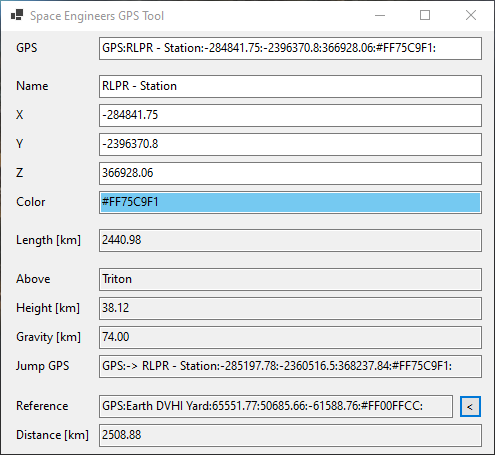
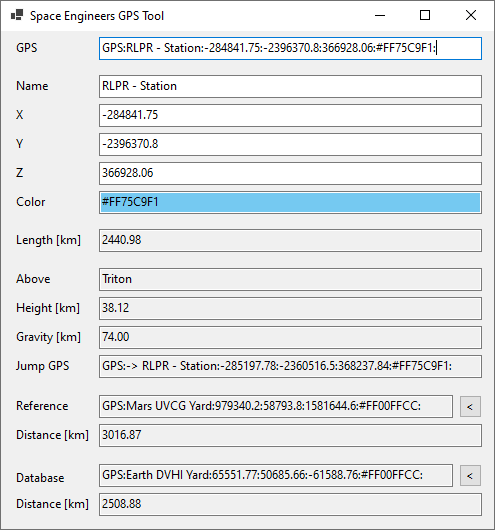
adding database and log feature

diff --git a/MainWindow.cs b/MainWindow.cs
@@ -1,6 +1,7 @@
 using System;
 using System.Collections.Generic;
 using System.Drawing;
+using System.IO;
 using System.Windows.Forms;
 
 namespace SEGPS
@@ -10,6 +11,10 @@ namespace SEGPS
     public partial class MainWindow : Form
     {
         private List<Planet> planets = new List<Planet>();
+        private List<Gps> database = new List<Gps>();
+        private string databasePath = Path.ChangeExtension(Application.ExecutablePath, ".txt");
+        private List<String> log = new List<String>();
+        private string logPath = Path.ChangeExtension(Application.ExecutablePath, ".log");
         private bool textIsChanging = false;
 
         private string clipBoardContent;
@@ -37,6 +42,9 @@ namespace SEGPS
             planets.Add(new Planet(new Gps("GPS:Alien:131072.50:131072.50:5731072.50:#FF75C9F1:"), 105000));
             planets.Add(new Planet(new Gps("GPS:Titan:36384.50:226384.50:5796384.50:#FF75C9F1:"), 13000));
 
+            DatabaseLoad();
+            LogLoad();
+
             timerClipboard.Enabled = true;
         }
 
@@ -62,7 +70,10 @@ namespace SEGPS
         {
             Gps gps = new Gps(content);
             if (gps.IsValid)
+            {
+                LogAppend(gps);
                 Gps_Changed(sender, gps);
+            }
         }
 
         private void SetTextBox(object sender, TextBox tb, string text)
@@ -94,16 +105,16 @@ namespace SEGPS
 
             tbLength.Text = (gps.Length() / 1000).ToString("0.00", Gps.NumberFormat); // [km]
 
-            Planet closest = GetClosest(gps);
-            if (closest != null)
+            Planet closestPlanet = GetClosestPlanet(gps);
+            if (closestPlanet != null)
             {
-                Gps center = closest.Item1;
+                Gps center = closestPlanet.Item1;
                 tbAbove.Text = center.Name;
 
                 float height = center.Distance(gps);
                 tbHeight.Text = (height / 1000).ToString("0.00", Gps.NumberFormat); // [km]
 
-                float gravity = closest.Item2;
+                float gravity = closestPlanet.Item2;
                 tbGravity.Text = (gravity / 1000).ToString("0.00", Gps.NumberFormat); // [km]
                 if (height > 1 && gravity - height > 1)
                 {
@@ -123,10 +134,83 @@ namespace SEGPS
                 tbRefDist.Text = (distance / 1000).ToString("0.00", Gps.NumberFormat); // [km]
             }
 
+            Gps closestDatabase = GetClosestDatabase(gps);
+            if (closestDatabase != null)
+            {
+                float distance = closestDatabase.Distance(gps);
+                tbDb.Text = closestDatabase.ToString();
+                tbDbDist.Text = (distance / 1000).ToString("0.00", Gps.NumberFormat); // [km]
+            }
+
             textIsChanging = false;
         }
 
-        private Planet GetClosest(Gps gps)
+        private void DatabaseLoad()
+        {
+            database.Clear();
+            if (File.Exists(databasePath))
+            {
+                foreach (var line in File.ReadAllLines(databasePath))
+                {
+                    database.Add(new Gps(line));
+                }
+            }
+        }
+
+        private void DatabaseWrite()
+        {
+            File.WriteAllLines(databasePath, database.ConvertAll(gps => gps.ToString()));
+        }
+
+        private void DatabaseUpdate(Gps gps)
+        {
+            bool found = false;
+            for (int i = 0; i < database.Count; i++)
+            {
+                if (gps.Distance(database[i]) < 10) // [m]
+                {
+                    database[i] = gps;
+                    found = true;
+                    break;
+                }
+            }
+            if (!found)
+            {
+                database.Add(gps);
+            }
+            DatabaseWrite();
+        }
+
+        private void LogLoad()
+        {
+            log.Clear();
+            if (File.Exists(logPath))
+            {
+                foreach (var line in File.ReadAllLines(logPath))
+                {
+                    log.Add(line);
+                }
+            }
+        }
+
+        private void LogAppend(Gps gps)
+        {
+            var line = gps.ToString();
+            // only log unseen coords
+            foreach (var entry in log)
+            {
+                if (entry == line)
+                {
+                    return;
+                }
+            }
+            using (var writer = File.AppendText(logPath))
+            {
+                writer.WriteLine(line);
+            }
+        }
+
+        private Planet GetClosestPlanet(Gps gps)
         {
             Planet closest = null;
             float min = float.PositiveInfinity;
@@ -137,6 +221,23 @@ namespace SEGPS
                 if (d < min)
                 {
                     closest = planet;
+                    min = d;
+                }
+            }
+            return closest;
+        }
+
+        private Gps GetClosestDatabase(Gps gps)
+        {
+            Gps closest = null;
+            float min = float.PositiveInfinity;
+
+            foreach (var entry in database)
+            {
+                float d = gps.Distance(entry);
+                if (d < min)
+                {
+                    closest = entry;
                     min = d;
                 }
             }
@@ -166,16 +267,37 @@ namespace SEGPS
 
         private void tbJumpGPS_DoubleClick(object sender, EventArgs e)
         {
-            tbJumpGPS.Select(0, tbJumpGPS.Text.Length);
-            // the JumpGPS coord will become new GPS coord, when clipboard change is detected
-            // could be prevented by: clipBoardContent = tbJumpGPS.Text;
-            Clipboard.SetText(tbJumpGPS.Text, TextDataFormat.UnicodeText);
+            if (tbJumpGPS.Text.Length > 0)
+            {
+                tbJumpGPS.Select(0, tbJumpGPS.Text.Length);
+                // the JumpGPS coord will become new GPS coord, when clipboard change is detected
+                // could be prevented by: clipBoardContent = tbJumpGPS.Text;
+                Clipboard.SetText(tbJumpGPS.Text, TextDataFormat.UnicodeText);
+            }
         }
 
         private void btRef_Click(object sender, EventArgs e)
         {
             tbRef.Text = tbGPS.Text;
             tbRefDist.Text = "0.00";
+        }
+
+        private void btDb_Click(object sender, EventArgs e)
+        {
+            tbDb.Text = tbGPS.Text;
+            tbDbDist.Text = "0.00";
+            DatabaseUpdate(new Gps(tbGPS.Text));
+        }
+
+        private void tbDb_DoubleClick(object sender, EventArgs e)
+        {
+            if (tbDb.Text.Length > 0)
+            {
+                tbDb.Select(0, tbDb.Text.Length);
+                // the database coord will become new GPS coord, when clipboard change is detected
+                // could be prevented by: clipBoardContent = tbDb.Text;
+                Clipboard.SetText(tbDb.Text, TextDataFormat.UnicodeText);
+            }
         }
     }
 }

diff --git a/MainWindow.Designer.cs b/MainWindow.Designer.cs
@@ -58,6 +58,11 @@ namespace SEGPS
             this.label12 = new System.Windows.Forms.Label();
             this.label13 = new System.Windows.Forms.Label();
             this.btRef = new System.Windows.Forms.Button();
+            this.btDb = new System.Windows.Forms.Button();
+            this.label14 = new System.Windows.Forms.Label();
+            this.label15 = new System.Windows.Forms.Label();
+            this.tbDbDist = new System.Windows.Forms.TextBox();
+            this.tbDb = new System.Windows.Forms.TextBox();
             this.SuspendLayout();
             // 
             // label1
@@ -298,11 +303,61 @@ namespace SEGPS
             this.btRef.UseVisualStyleBackColor = true;
             this.btRef.Click += new System.EventHandler(this.btRef_Click);
             // 
+            // btDb
+            // 
+            this.btDb.Location = new System.Drawing.Point(458, 433);
+            this.btDb.Name = "btDb";
+            this.btDb.Size = new System.Drawing.Size(23, 23);
+            this.btDb.TabIndex = 28;
+            this.btDb.Text = "<";
+            this.btDb.UseVisualStyleBackColor = true;
+            this.btDb.Click += new System.EventHandler(this.btDb_Click);
+            // 
+            // label14
+            // 
+            this.label14.AutoSize = true;
+            this.label14.Location = new System.Drawing.Point(12, 465);
+            this.label14.Name = "label14";
+            this.label14.Size = new System.Drawing.Size(80, 15);
+            this.label14.TabIndex = 30;
+            this.label14.Text = "Distance [km]";
+            // 
+            // label15
+            // 
+            this.label15.AutoSize = true;
+            this.label15.Location = new System.Drawing.Point(12, 439);
+            this.label15.Name = "label15";
+            this.label15.Size = new System.Drawing.Size(55, 15);
+            this.label15.TabIndex = 29;
+            this.label15.Text = "Database";
+            // 
+            // tbDbDist
+            // 
+            this.tbDbDist.Location = new System.Drawing.Point(98, 462);
+            this.tbDbDist.Name = "tbDbDist";
+            this.tbDbDist.ReadOnly = true;
+            this.tbDbDist.Size = new System.Drawing.Size(383, 23);
+            this.tbDbDist.TabIndex = 31;
+            // 
+            // tbDb
+            // 
+            this.tbDb.Location = new System.Drawing.Point(98, 433);
+            this.tbDb.Name = "tbDb";
+            this.tbDb.ReadOnly = true;
+            this.tbDb.Size = new System.Drawing.Size(354, 23);
+            this.tbDb.TabIndex = 27;
+            this.tbDb.DoubleClick += new System.EventHandler(this.tbDb_DoubleClick);
+            // 
             // MainWindow
             // 
             this.AutoScaleDimensions = new System.Drawing.SizeF(7F, 15F);
             this.AutoScaleMode = System.Windows.Forms.AutoScaleMode.Font;
-            this.ClientSize = new System.Drawing.Size(493, 423);
+            this.ClientSize = new System.Drawing.Size(493, 498);
+            this.Controls.Add(this.btDb);
+            this.Controls.Add(this.label14);
+            this.Controls.Add(this.label15);
+            this.Controls.Add(this.tbDbDist);
+            this.Controls.Add(this.tbDb);
             this.Controls.Add(this.btRef);
             this.Controls.Add(this.label13);
             this.Controls.Add(this.label12);
@@ -369,6 +424,11 @@ namespace SEGPS
         private System.Windows.Forms.Label label12;
         private System.Windows.Forms.Label label13;
         private System.Windows.Forms.Button btRef;
+        private System.Windows.Forms.Button btDb;
+        private System.Windows.Forms.Label label14;
+        private System.Windows.Forms.Label label15;
+        private System.Windows.Forms.TextBox tbDbDist;
+        private System.Windows.Forms.TextBox tbDb;
     }
 }
 

diff --git a/README.md b/README.md
@@ -17,3 +17,7 @@ Besides the individual components SEGPS will also show you:
 If the coords are within gravity, SEGPS will calculate a "Jump GPS" approach vector just outside the gravity but straight above your target. Double click here to load this into clipboard. In-game use "new from clipboard" and search for the prefix "->".
 
 Once a coord is loaded, you can use that as a reference point by pressing the "<" button next to the reference field. For any future coords, SEGPS will calculate the distance from there to the reference.
+
+Coords can be added to the database with the "<" button next to the database field. This will show the nearest database entry and distance to there. Adding the same x, y, z will update text and color of the existing entry instead of adding a new one.
+
+The database is located in SEGPS.txt next to the executable. There is also a log SEGPS.log that contains any seen coords so far, just in case you lost some.
